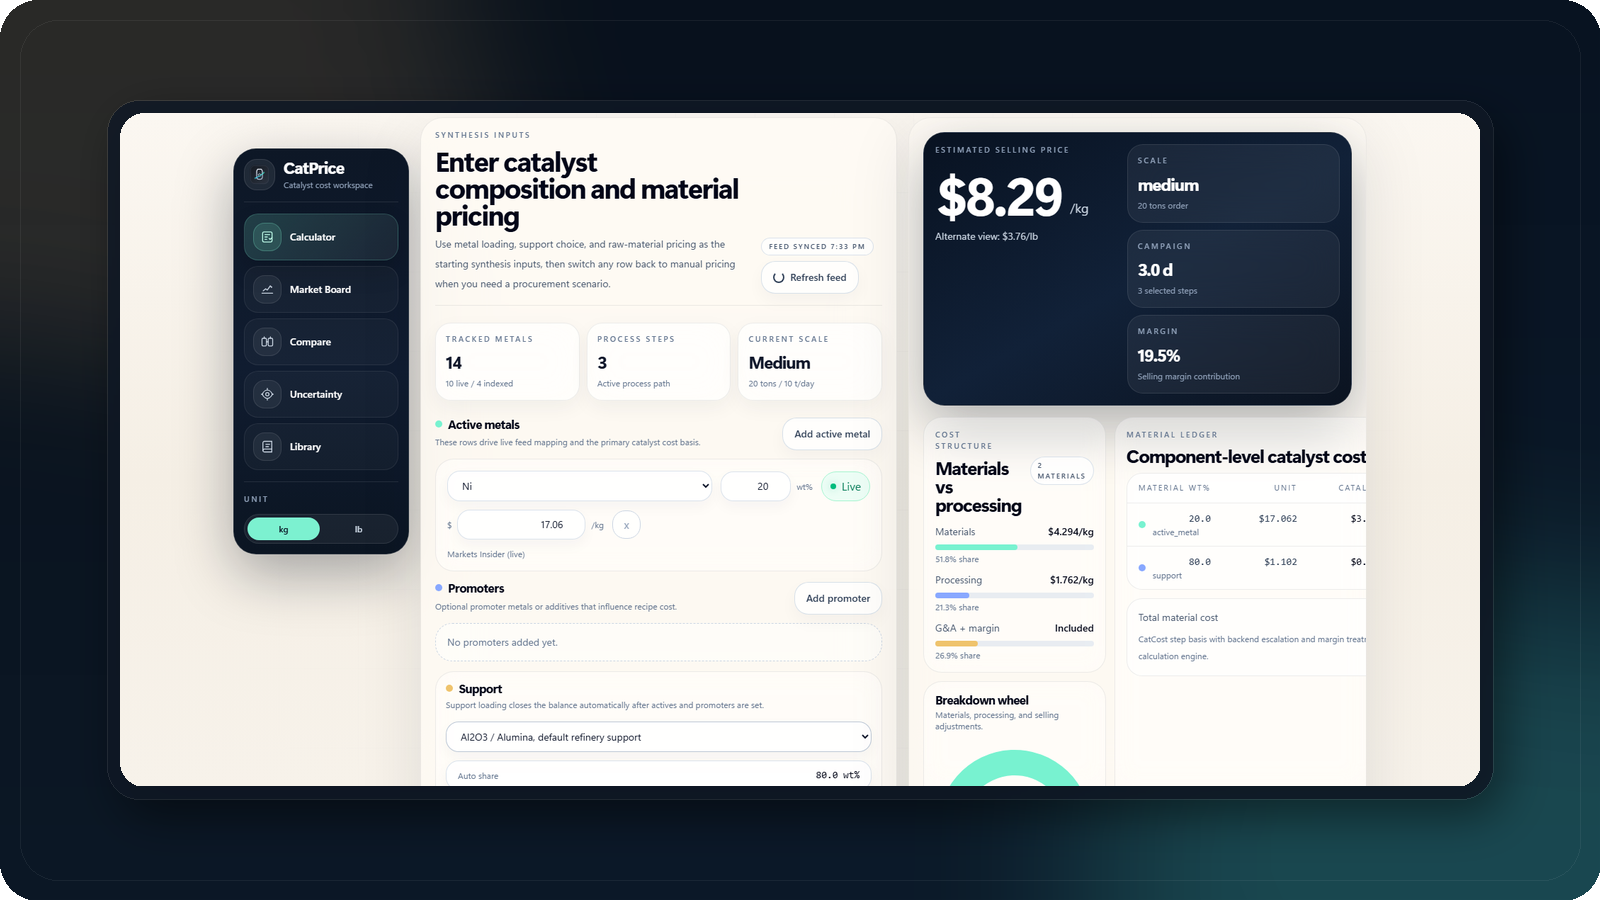
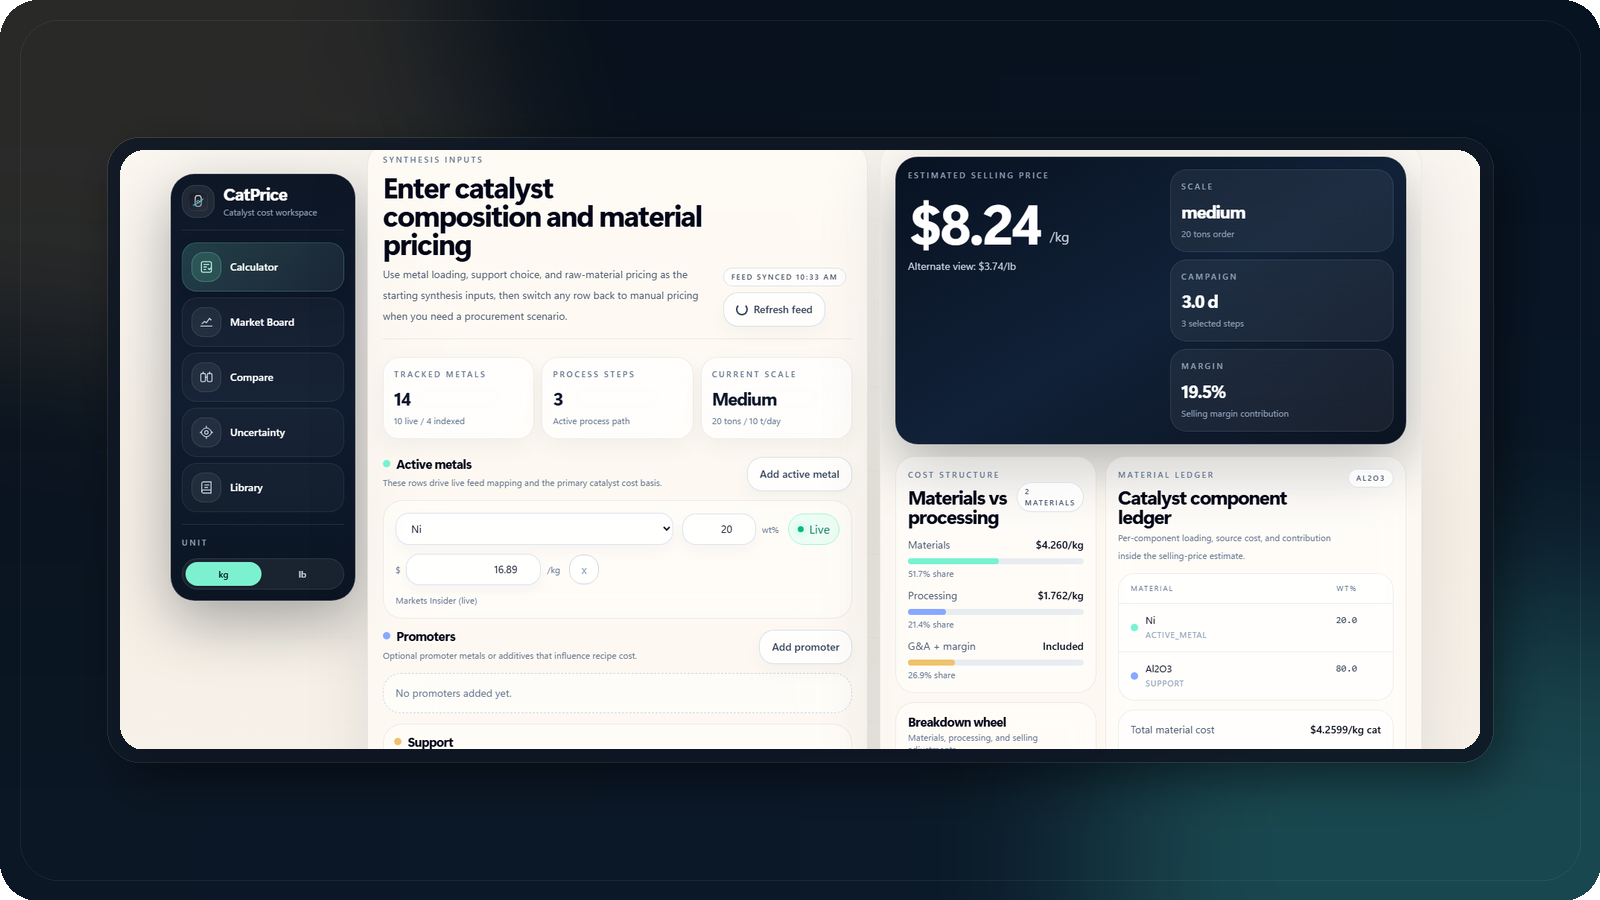
fix: clean up calculator result presentation

Changed region(s): [[0.0625, 0.1244, 0.9375, 0.9022], [0.4375, 0.3422, 0.5, 0.4667], [0.3438, 0.3733, 0.4062, 0.4356]]

diff --git a/frontend/src/pages/Calculator.tsx b/frontend/src/pages/Calculator.tsx
@@ -327,7 +327,7 @@ export default function Calculator() {
           </div>
         </div>
 
-        <div className="mt-4 grid gap-3 xl:grid-cols-[0.88fr_1.12fr]">
+        <div className="mt-4 grid gap-3 xl:grid-cols-[minmax(270px,0.74fr)_minmax(0,1.26fr)]">
           <div className="space-y-3">
             <div className="surface-ghost p-4">
               <div className="flex items-center justify-between gap-3"><div><div className="cp-subtle-label">Cost Structure</div><div className="cp-heading-lg mt-2">Materials vs processing</div></div><span className="cp-chip">{result.materials.components.length} materials</span></div>
@@ -345,7 +345,7 @@ export default function Calculator() {
             <div className="surface-ghost p-4">
               <div className="cp-heading-sm">Breakdown wheel</div>
               <div className="mt-1 text-xs text-slate-500">Materials, processing, and selling adjustments.</div>
-              <div className="mt-3 h-[280px]">
+              <div className="mt-3 h-[250px]">
                 <ResponsiveContainer width="100%" height="100%">
                   <PieChart>
                     <Pie data={pieData} innerRadius={72} outerRadius={108} dataKey="value" paddingAngle={3} stroke="transparent">
@@ -360,19 +360,28 @@ export default function Calculator() {
           </div>
 
           <div className="surface-ghost p-4">
-            <div className="flex items-center justify-between gap-3"><div><div className="cp-subtle-label">Material Ledger</div><div className="cp-heading-lg mt-2">Component-level catalyst cost</div></div><span className="cp-chip">{selectedSupport?.name ?? 'Support'}</span></div>
-            <div className="mt-3 overflow-hidden rounded-[22px] border border-slate-900/8 bg-white/56">
-              <div className="grid grid-cols-[minmax(0,1.4fr)_90px_110px_110px_72px] gap-3 border-b border-slate-900/8 bg-white/46 px-4 py-3 text-[11px] uppercase tracking-[0.18em] text-slate-500"><span>Material</span><span className="text-right">wt%</span><span className="text-right">Unit</span><span className="text-right">Catalyst</span><span className="text-right">Share</span></div>
-              <div className="divide-y divide-slate-900/8">
-                {result.materials.components.map((component, index) => (
-                  <div key={`${component.name}-${component.role}`} className="grid grid-cols-[minmax(0,1.4fr)_90px_110px_110px_72px] gap-3 px-4 py-3 text-sm">
-                    <div className="flex min-w-0 items-center gap-2.5"><span className="h-2.5 w-2.5 flex-none rounded-full" style={{ backgroundColor: CHART_COLORS[index % CHART_COLORS.length] }} /><div className="min-w-0"><div className="truncate text-slate-950">{component.name}</div><div className="text-xs text-slate-500">{component.role}</div></div></div>
-                    <span className="text-right font-mono text-slate-700">{(component.wt_frac * 100).toFixed(1)}</span>
-                    <span className="text-right font-mono text-slate-700">${toDisplay(component.price_per_lb).toFixed(3)}</span>
-                    <span className="text-right font-mono text-slate-950">${toDisplay(component.cost_per_lb_cat).toFixed(3)}</span>
-                    <span className="text-right font-mono text-slate-500">{component.cost_pct}%</span>
-                  </div>
-                ))}
+            <div className="flex min-w-0 flex-col gap-3 sm:flex-row sm:items-start sm:justify-between">
+              <div className="min-w-0">
+                <div className="cp-subtle-label">Material Ledger</div>
+                <div className="cp-heading-lg mt-2 max-w-[18ch]">Catalyst component ledger</div>
+                <div className="mt-1 text-xs leading-6 text-slate-500">Per-component loading, source cost, and contribution inside the selling-price estimate.</div>
+              </div>
+              <span className="cp-chip shrink-0">{selectedSupport?.name ?? 'Support'}</span>
+            </div>
+            <div className="mt-3 overflow-x-auto rounded-[22px] border border-slate-900/8 bg-white/56">
+              <div className="min-w-[620px]">
+                <div className="grid grid-cols-[minmax(0,1.36fr)_64px_88px_96px_64px] gap-3 border-b border-slate-900/8 bg-white/46 px-4 py-3 text-[10px] uppercase tracking-[0.16em] text-slate-500"><span>Material</span><span className="text-right">wt%</span><span className="text-right">Unit</span><span className="text-right">Per cat</span><span className="text-right">Share</span></div>
+                <div className="divide-y divide-slate-900/8">
+                  {result.materials.components.map((component, index) => (
+                    <div key={`${component.name}-${component.role}`} className="grid grid-cols-[minmax(0,1.36fr)_64px_88px_96px_64px] gap-3 px-4 py-3 text-[13px] leading-5">
+                      <div className="flex min-w-0 items-center gap-2.5"><span className="h-2.5 w-2.5 flex-none rounded-full" style={{ backgroundColor: CHART_COLORS[index % CHART_COLORS.length] }} /><div className="min-w-0"><div className="truncate text-slate-950">{component.name}</div><div className="text-[11px] uppercase tracking-[0.08em] text-slate-400">{component.role}</div></div></div>
+                      <span className="text-right font-mono text-slate-700">{(component.wt_frac * 100).toFixed(1)}</span>
+                      <span className="text-right font-mono text-slate-700">${toDisplay(component.price_per_lb).toFixed(3)}</span>
+                      <span className="text-right font-mono text-slate-950">${toDisplay(component.cost_per_lb_cat).toFixed(3)}</span>
+                      <span className="text-right font-mono text-slate-500">{Number(component.cost_pct).toFixed(1)}%</span>
+                    </div>
+                  ))}
+                </div>
               </div>
             </div>
             <div className="mt-3 rounded-[22px] border border-slate-900/8 bg-white/60 p-4">
@@ -397,7 +406,7 @@ export default function Calculator() {
     <div className="space-y-3">
       <datalist id="known-metal-options">{KNOWN_METALS.map((metal) => <option key={metal} value={metal} />)}</datalist>
 
-      <div className="grid gap-4 xl:grid-cols-[minmax(0,1.02fr)_minmax(0,0.98fr)]">
+      <div className="grid gap-4 xl:grid-cols-[minmax(0,0.96fr)_minmax(0,1.04fr)]">
         <section className="surface-card cp-enter overflow-hidden px-4 py-4 sm:px-5" style={{ animationDelay: '0.06s' }}>
           <div className="space-y-6">
             <div className="flex flex-col gap-4 border-b border-slate-900/8 pb-4 lg:flex-row lg:items-end lg:justify-between">

diff --git a/frontend/src/components/layout/AppFrame.tsx b/frontend/src/components/layout/AppFrame.tsx
@@ -7,7 +7,7 @@ export default function AppFrame() {
     <div className="cp-shell relative min-h-screen overflow-x-hidden">
       <TopNavigation />
 
-      <main className="mx-auto max-w-[1640px] px-3 pb-6 pt-2 sm:px-4 lg:px-5 lg:pt-1.5">
+      <main className="mx-auto max-w-[1720px] px-3 pb-6 pt-2 sm:px-4 lg:px-5 lg:pt-1.5">
         <div className="grid gap-3 lg:grid-cols-[248px_minmax(0,1fr)] xl:gap-4">
           <Sidebar />
 
